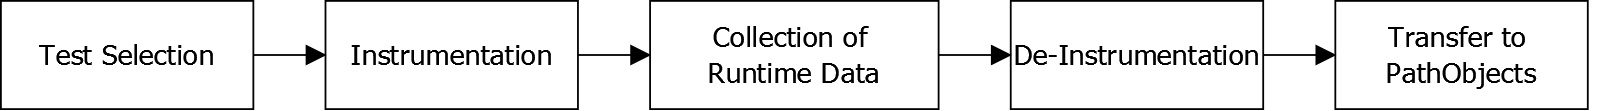
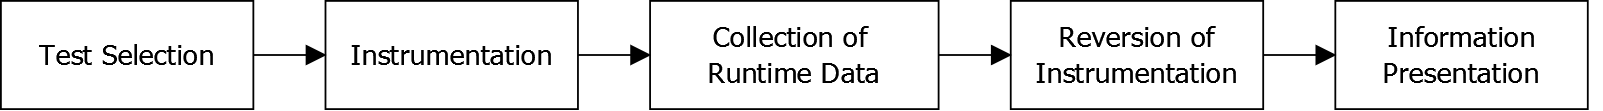
updated tracing figure

Changed region(s): [[0.6238, 0.2432, 0.7798, 0.7568], [0.8422, 0.2432, 0.9669, 0.4324], [0.8422, 0.5676, 0.9669, 0.7568]]

diff --git a/tex/2-background.tex b/tex/2-background.tex
@@ -226,8 +226,8 @@ Thus, an extensive up-front collection of potentially useless information can be
 
 \begin{figure}[tb]
 	\centering
-	\includegraphics[width=0.9\textwidth]{../images/02-TracingProcess}
-	\caption[TOC Caption]{Tracing process }
+	\includegraphics[width=1.0\textwidth]{../images/02-TracingProcess}
+	\caption{Fundamental Stages of Step-Wise Run-Time Analysis}
 	\label{fig:BackgroundTracingApproach}
 \end{figure}
 
